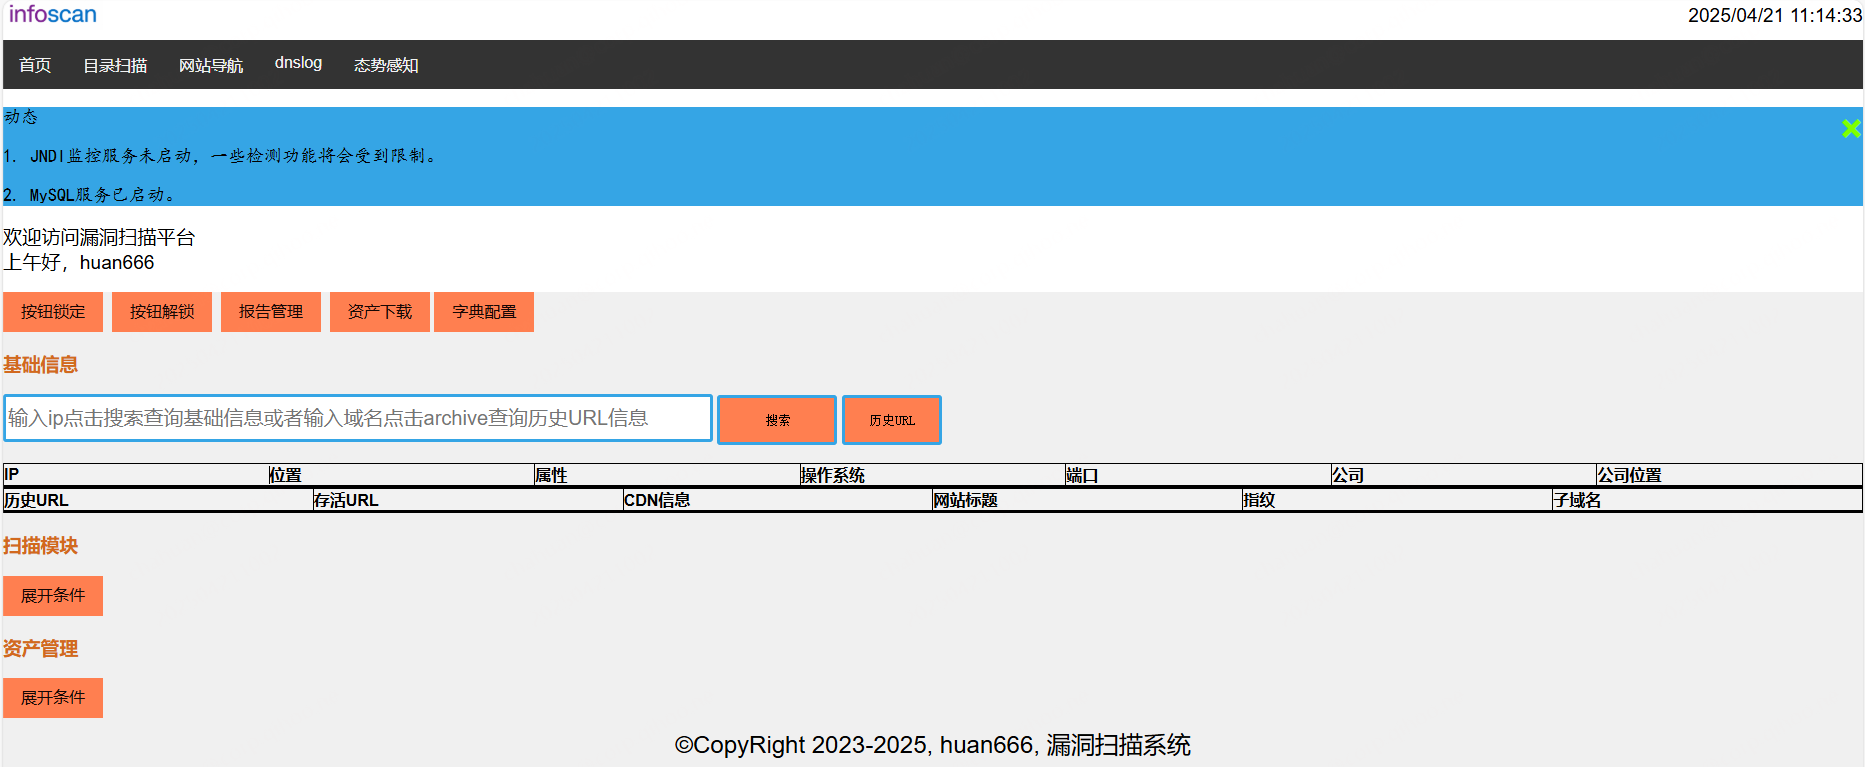
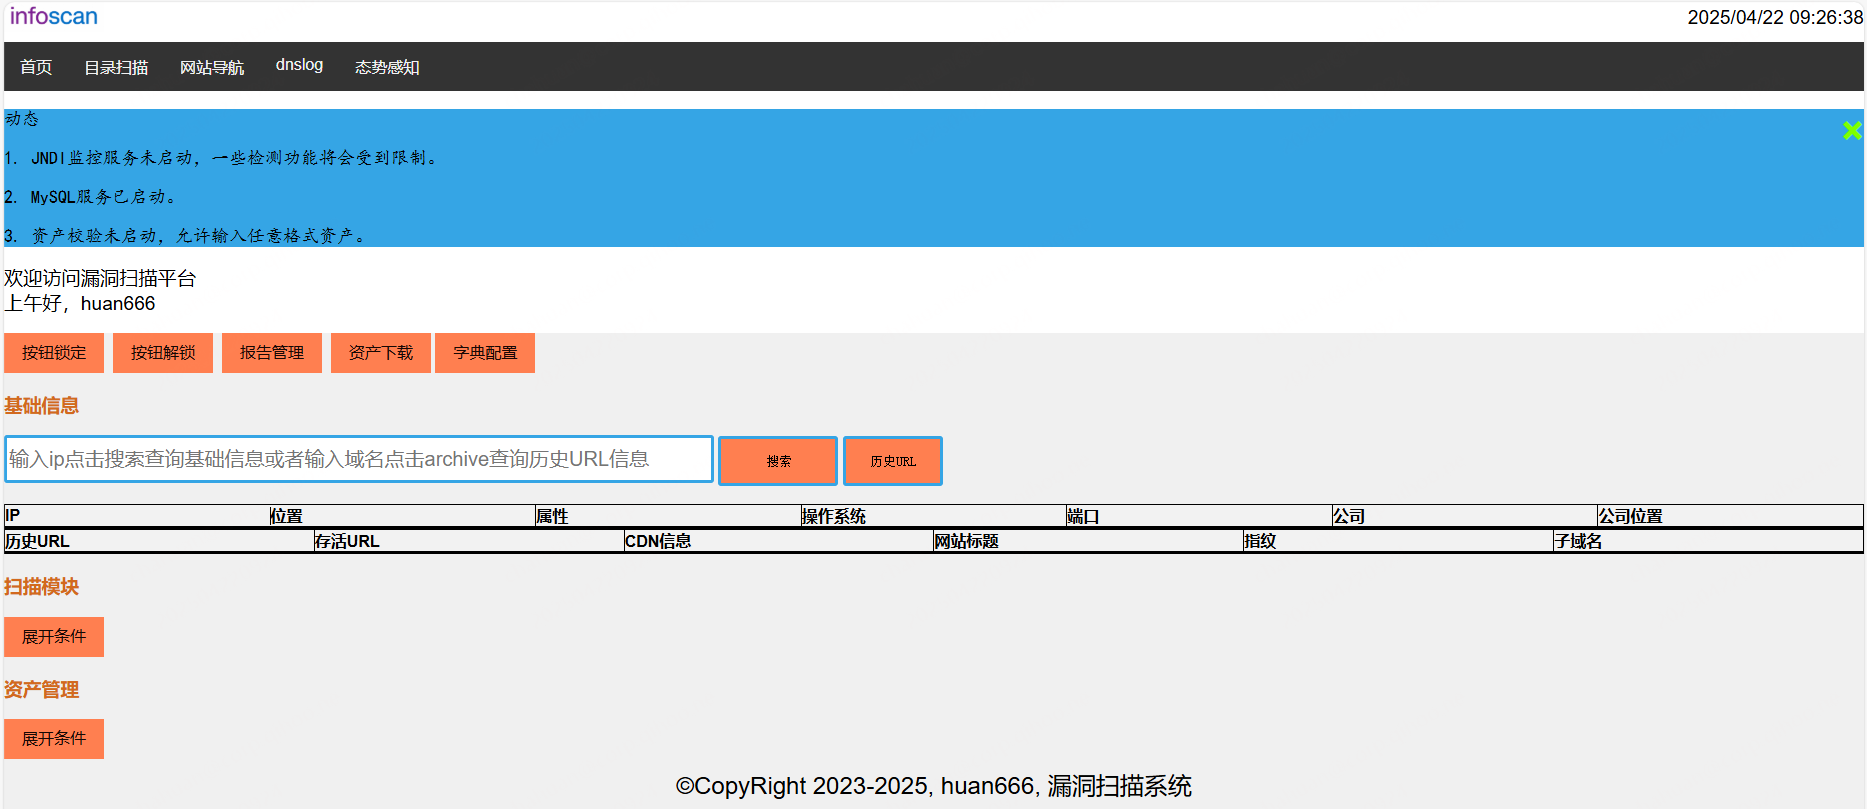
系统优化

diff --git a/static/js/common.js b/static/js/common.js
@@ -585,6 +585,7 @@ function startscanconfigpagefunc() {
             document.getElementById("customizelimitid4").value = info.icp_remaining_num;
             document.getElementById("customizelimitid5").value = info.amap_remaining_num;
             document.getElementById("customizelimitid6").value = info.otx_remaining_num;
+
             // jndi服务状态
             const statusElement = document.getElementById('jndistatusid1');
             const status = info.jndistatus;
@@ -600,6 +601,20 @@ function startscanconfigpagefunc() {
             } else {
                 statusElement.classList.add('status-error');
             }
+
+            // 资产校验开关状态
+            const statusElement1 = document.getElementById('assetsjiaoyanstatusid1');
+            const status1 = info.assets_jiaoyan_status;
+            
+            // 根据状态添加对应样式
+            if (status1 === '已开启校验') {
+                statusElement1.classList.add('status-running');
+            } else if (status1 === '未开启校验') {
+                statusElement1.classList.add('status-stopped');
+            } else {
+                statusElement1.classList.add('status-error');
+            }
+
         },
         error: function () {
             const statusElement = document.getElementById('jndistatusid1');
@@ -2895,3 +2910,64 @@ function updateClock() {
 
 setInterval(updateClock, 1000); // 更新时间间隔为1秒
 updateClock(); // 初始化时立即更新时间
+
+
+// 系统配置开启资产校验
+function startassetsjiaoyanfunc() {
+
+    $.ajax({
+        url: '/startassetserification/',
+        method: 'GET',
+
+        success: function (info) {
+            const statusElement = document.getElementById('assetsjiaoyanstatusid1');
+            const status = info.verificationresult;
+
+            // 清除所有可能的状态类
+            statusElement.className = 'status-circle';
+
+            // 根据状态添加对应样式
+            if (status === '已开启校验') {
+                statusElement.classList.add('status-running');
+            } else if (status === '未开启校验') {
+                statusElement.classList.add('status-stopped');
+            } else {
+                statusElement.classList.add('status-error');
+            }
+        },
+        error: function () {
+            const statusElement = document.getElementById('assetsjiaoyanstatusid1');
+            statusElement.className = 'status-circle status-error';
+        }
+    })
+}
+
+// 系统配置关闭资产校验
+function stopassetsjiaoyanfunc() {
+
+    $.ajax({
+        url: '/stopassetserification/',
+        method: 'GET',
+
+        success: function (info) {
+            const statusElement = document.getElementById('assetsjiaoyanstatusid1');
+            const status = info.verificationresult;
+
+            // 清除所有可能的状态类
+            statusElement.className = 'status-circle';
+
+            // 根据状态添加对应样式
+            if (status === '已开启校验') {
+                statusElement.classList.add('status-running');
+            } else if (status === '未开启校验') {
+                statusElement.classList.add('status-stopped');
+            } else {
+                statusElement.classList.add('status-error');
+            }
+        },
+        error: function () {
+            const statusElement = document.getElementById('assetsjiaoyanstatusid1');
+            statusElement.className = 'status-circle status-error';
+        }
+    })
+}

diff --git a/templates/tanchuang.html b/templates/tanchuang.html
@@ -526,22 +526,37 @@
 
             <tr>
                 <td>
-                    <strong style="color: chocolate;">JNDI服务开关</strong>&nbsp;
-                    <!-- jndi服务状态显示 -->
-                    <span id="jndistatusid1" class="status-circle"></span>
-                    <span class="status-text" id="statusText"></span> <!-- 隐藏的文字 -->
-                    <br>
-                </td>
-            </tr>
-            <tr>
-                <td>
-                    <div class="button-container1">
-                        <button class="button edit-button" onclick="jndistatusfunc()">开启</button>
-                        <button class="button delete-button" onclick="stopjndistatusfunc()">关闭</button>
+                    <table border="1">
+                        <tr>
+                            <td>
+                                <strong style="color: chocolate;">JNDI服务开关</strong>&nbsp;
+                                <!-- jndi服务状态显示 -->
+                                <span id="jndistatusid1" class="status-circle"></span>
+                                <span class="status-text" id="statusText"></span> <!-- 隐藏的文字 -->
+                                <br><br>
+                                <div class="button-container1">
+                                    <button class="button edit-button" onclick="jndistatusfunc()">开启</button>
+                                    <button class="button delete-button" onclick="stopjndistatusfunc()">关闭</button>
 
-                    </div>
+                                </div>
+                            </td>
+                            <td>
+                                <strong style="color: chocolate;">资产校验开关</strong>&nbsp;
+                                <!-- 资产校验开关显示 -->
+                                <span id="assetsjiaoyanstatusid1" class="status-circle"></span>
+                                <span class="status-text" id="statusText"></span> <!-- 隐藏的文字 -->
+                                <br><br>
+                                <div class="button-container1">
+                                    <button class="button edit-button" onclick="startassetsjiaoyanfunc()">开启</button>
+                                    <button class="button delete-button" onclick="stopassetsjiaoyanfunc()">关闭</button>
+
+                                </div>
+                            </td>
+                        </tr>
+                    </table>
                 </td>
             </tr>
+
             <tr>
                 <td>
                     <strong style="color: chocolate;">自定义接口额度配置</strong>
@@ -558,7 +573,7 @@
                                 <br><strong>fofa配置</strong>
                             </td>
                             <td>
-                                <input type="text" class="my-input5"id="customizelimitid2">
+                                <input type="text" class="my-input5" id="customizelimitid2">
                                 <span class="my-span" onclick="startverifychearlogfunc('13')">保存</span>
                                 <br><strong>shodan配置</strong>
                             </td>
@@ -587,7 +602,7 @@
                         </tr>
                     </table>
                 </td>
-                
+
             </tr>
         </table>
 

diff --git a/templates/index.html b/templates/index.html
@@ -35,6 +35,7 @@
 		<p>动态</p>
 		<p>{{data31}}</p>
 		<p>{{data32}}</p>
+		<p>{{data33}}</p>
 	</div>
 
 	<div class="content">

diff --git a/scan_main_web.py b/scan_main_web.py
@@ -72,12 +72,6 @@ crt_max_num =  basic.customize_interface_totalnum(3)
 icp_max_num = basic.customize_interface_totalnum(4)
 amap_max_num = basic.customize_interface_totalnum(5)
 otx_max_num = basic.customize_interface_totalnum(6)
-# from config import fofa_max_num
-# from config import otx_max_num
-# from config import amap_max_num
-# from config import crt_max_num
-# from config import shodan_max_num
-# from config import icp_max_num
 
 # 多线程操作模块
 import threading
@@ -88,7 +82,8 @@ from config import recheck_password
 
 from config_session import PERMANENT_SESSION_LIFETIME
 
-from config import assetverification
+# 资产格式校验
+assetverification = basic.verification_table_lib(1)
 import json
 
 # 校验是否先进行指纹识别
@@ -273,9 +268,8 @@ def ipscaninterface():
 def index():
     user = session.get('username')
     if str(user) == main_username:
-        # asset_file_list = basic.list_files_in_directory()
+
         asset_file_list = basic.fofa_grammar_lib()
-        # session_time = basic.select_session_time_lib(1)
         period_time = get_time_period_lib()
         # 判断是否开启JNDI
         jndi_status = os.popen('bash /TIP/info_scan/finger.sh jndi_server_status').read()
@@ -291,7 +285,14 @@ def index():
             mysql_status_result = "2. MySQL服务已启动。"
         else:
             mysql_status_result = "2. MySQL服务未启动，系统部分功能将会受到限制。"
-        return render_template('index.html',data20=str(user),data21=asset_file_list,data30 = str(period_time),data31=str(jndi_status_result),data32=str(mysql_status_result))
+        
+        # 判断是否开启资产格式校验
+        verification_status = basic.verification_table_lib(1)
+        if "已开启校验" == verification_status:
+            assets_status_result = "3. 资产校验已启动，只允许输入URL格式资产。"
+        else:
+            assets_status_result = "3. 资产校验未启动，允许输入任意格式资产。"
+        return render_template('index.html',data20=str(user),data21=asset_file_list,data30 = str(period_time),data31=str(jndi_status_result),data32=str(mysql_status_result),data33=str(assets_status_result))
     else:
         return render_template('login.html')
 
@@ -428,12 +429,12 @@ def submit_data():
             result_rule = "请勿进行安全测试！"
 
         else:
-            # 2024.8.2更新  校验非URL资产
+            
             result_rule = ""
-            if int(assetverification) == 1:
+            if assetverification == "已开启校验":
                 for ii in data:
                     if "http://"  not in ii and "https://" not in ii:
-                        result_rule = "请勿输入非URL字段！"
+                        result_rule = "请勿输入非URL资产！！！"
                         break
             if not result_rule:
                 # 列表中数据存入文件中
@@ -4906,6 +4907,8 @@ def system_config_data():
         else:
             jndistatus = "关闭"
 
+        # 资产校验开关状态
+        assets_jiaoyan_status = basic.verification_table_lib(1)
         shodan_key = basic.select_session_time_lib(3)
         amap_key = basic.select_session_time_lib(4)
         ceye_key =  basic.select_session_time_lib(5)
@@ -4988,7 +4991,9 @@ def system_config_data():
             "amap_key":str(amap_key_tuomin),
             "ceye_key":str(ceye_key_tuomin),
             # jndi状态查询
-            "jndistatus":str(jndistatus)
+            "jndistatus":str(jndistatus),
+            # 资产校验状态
+            "assets_jiaoyan_status":str(assets_jiaoyan_status)
         }
         return jsonify(message_json)
     else:
@@ -6251,6 +6256,35 @@ def largescreenpagedata():
             "unes1_status2":unes1_status2,
             "unes1contime":unes1contime
 
+        }
+        return jsonify(message_json)
+    else:
+        return render_template('login.html')
+
+
+
+# 开启资产校验
+@app.route("/startassetserification/",methods=['GET'])
+def startassetserification():
+    user = session.get('username')
+    if str(user) == main_username:
+        verificationresult = basic.update_verification_table_lib(1,1)
+        message_json = {
+            "verificationresult":verificationresult
+        }
+        return jsonify(message_json)
+    else:
+        return render_template('login.html')
+    
+
+# 关闭资产校验
+@app.route("/stopassetserification/",methods=['GET'])
+def stopassetserification():
+    user = session.get('username')
+    if str(user) == main_username:
+        verificationresult = basic.update_verification_table_lib(2,1)
+        message_json = {
+            "verificationresult":verificationresult
         }
         return jsonify(message_json)
     else:

diff --git a/basic.py b/basic.py
@@ -3665,7 +3665,7 @@ def customize_interface_totalnum(partid):
             customize_result = i[0]
     return customize_result
 
-# 自定义接口额度修复
+# 自定义接口额度修改
 def update_customize_interface_totalnum(part1,part2):
     try:
         db= pymysql.connect(host=dict['ip'],user=dict['username'],  
@@ -3708,6 +3708,63 @@ def update_customize_interface_totalnum(part1,part2):
     return update_result
     
 
+# 资产校验开关查询
+def verification_table_lib(partid):
+    if partid >= 2:
+        customize_result = "只能查询1条数据"
+    else:
+        db= pymysql.connect(host=dict['ip'],user=dict['username'],  
+        password=dict['password'],db=dict['dbname'],port=dict['portnum']) 
+        cur = db.cursor()
+        sql="select logopart from verification_table where id = '%s' "%(partid)
+        cur.execute(sql)
+        data = cur.fetchall()
+        list_data = list(data)
+        for i in list_data:
+            customize_result = i[0]
+            if int(customize_result) == 1:
+                customize_result_part = "已开启校验"
+            else:
+                customize_result_part = "未开启校验"
+    return customize_result_part
+
+
+# 修改资产校验开关
+def update_verification_table_lib(part1,part2):
+    try:
+        db= pymysql.connect(host=dict['ip'],user=dict['username'],  
+        password=dict['password'],db=dict['dbname'],port=dict['portnum']) 
+        cur = db.cursor()
+        sql="UPDATE verification_table SET logopart = '%s' WHERE id = '%s'"%(part1,part2)
+        cur.execute(sql)
+        db.commit()
+        # 验证是否更新成功
+        check_sql = "SELECT logopart FROM verification_table WHERE id = %s"
+        cur.execute(check_sql, (part2))
+        result = cur.fetchone()
+        if int(part1) == 1:
+            if int(result[0]) == int(part1):
+                update_result = "已开启校验"
+            else:
+                update_result = "资产校验开启出错"
+        elif int(part1) == 2:
+            if int(result[0]) == int(part1):
+                update_result = "未开启校验"
+            else:
+                update_result = "资产校验关闭出错"
+        else:
+            print("不允许配置其他参数")
+        
+    except Exception as e:
+        print("捕获到异常:", e)
+        db.rollback()
+    # 配置生效需重启服务
+    try:
+        os.popen('bash /TIP/info_scan/finger.sh restartinfoscan')
+    except Exception as e:
+        print("执行重启语句时发生错误：", e)
+    return update_result
+
 
 if __name__ == "__main__":
     if len(sys.argv) > 1:
@@ -3730,8 +3787,8 @@ if __name__ == "__main__":
             withdrawiplocation_lib()
 
         # 测试使用
-        elif func_name == 'update_customize_interface_totalnum':
-            c = update_customize_interface_totalnum(6123,2)
+        elif func_name == 'update_verification_table_lib':
+            c = update_verification_table_lib(2,1)
             print(c)
         else:
             print("Invalid function number")

diff --git a/config.py b/config.py
@@ -114,9 +114,6 @@ custom_poc_timeout = 3
 # 未授权类漏洞采用线程池，线程数量配置，服务器配置低尽量不要将此值调大
 threadnum=50
 
-# 资产输入格式校验,值为1会校验资产格式,值为其他值不会校验资产格式
-assetverification = 0
-
 # 扫描前是否校验指纹识别(未进行指纹识别的资产无法进行扫描)，0表示不校验，1表示校验
 verification_fingerprint_recognition = 0
 

diff --git a/readme.md b/readme.md
@@ -74,6 +74,7 @@ mysql账号密码：admin/123456<br>
 4.密码查询和杀软查询新增传入参数校验是否为空；<br>
 5.密码查询和杀软查询首页去掉查询所有数据，只能通过关键字进行搜索；<br>
 6.接口额度由配置文件修改为前端自定义配置；<br>
+7.资产格式校验开关由原来的配置文件修改为前端开关配置；<br>
 </li>
 <li>
 2025-4-9更新<br> 
